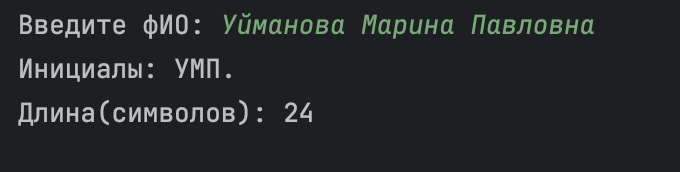
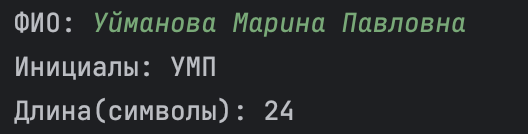
.

Changed region(s): [[0.0, 0.3284, 0.5758, 0.9254], [0.0303, 0.0597, 0.8788, 0.2687]]

diff --git a/src/lab01/ex05.py b/src/lab01/ex05.py
@@ -1,12 +1,7 @@
-n=str(input(("Введите фИО: ")))
-n=" ".join(n.split())
-p= n.split()
-if len(p)==3:
-    surname, name, patr = p
-initials=f"{surname[0]}{name[0]}{patr[0]}."
-l=len(n)
-print("Инициалы:" , initials)
-print("Длина(символов):" , l)
+sec, fir, thr = map(str, input("ФИО: ").split())
+print(f'Инициалы: {sec[0] + fir[0] + thr[0]}')
+print(f'Длина(символы): {2+len(fir) + len(thr) + len(sec)}')
+
 
 
 

diff --git a/README.md b/README.md
@@ -44,14 +44,9 @@ print(f"{h}:{m1:02d}")
 
 ### Задание 5
 ```python
-n=str(input(("Введите фИО: ")))
-n=" ".join(n.split())
-p= n.split()
-if len(p)==3:
-    surname, name, patr = p
-initials=f"{surname[0]}{name[0]}{patr[0]}."
-l=len(n)
-print("Инициалы:" , initials)
-print("Длина(символов):" , l)
+sec, fir, thr = map(str, input("ФИО: ").split())
+print(f'Инициалы: {sec[0] + fir[0] + thr[0]}')
+print(f'Длина(символы): {2+len(fir) + len(thr) + len(sec)}')
+
 ```
-![ex04](./img/lab01/ex05_img.png)
+![ex05](./img/lab01/ex05_img.png)
